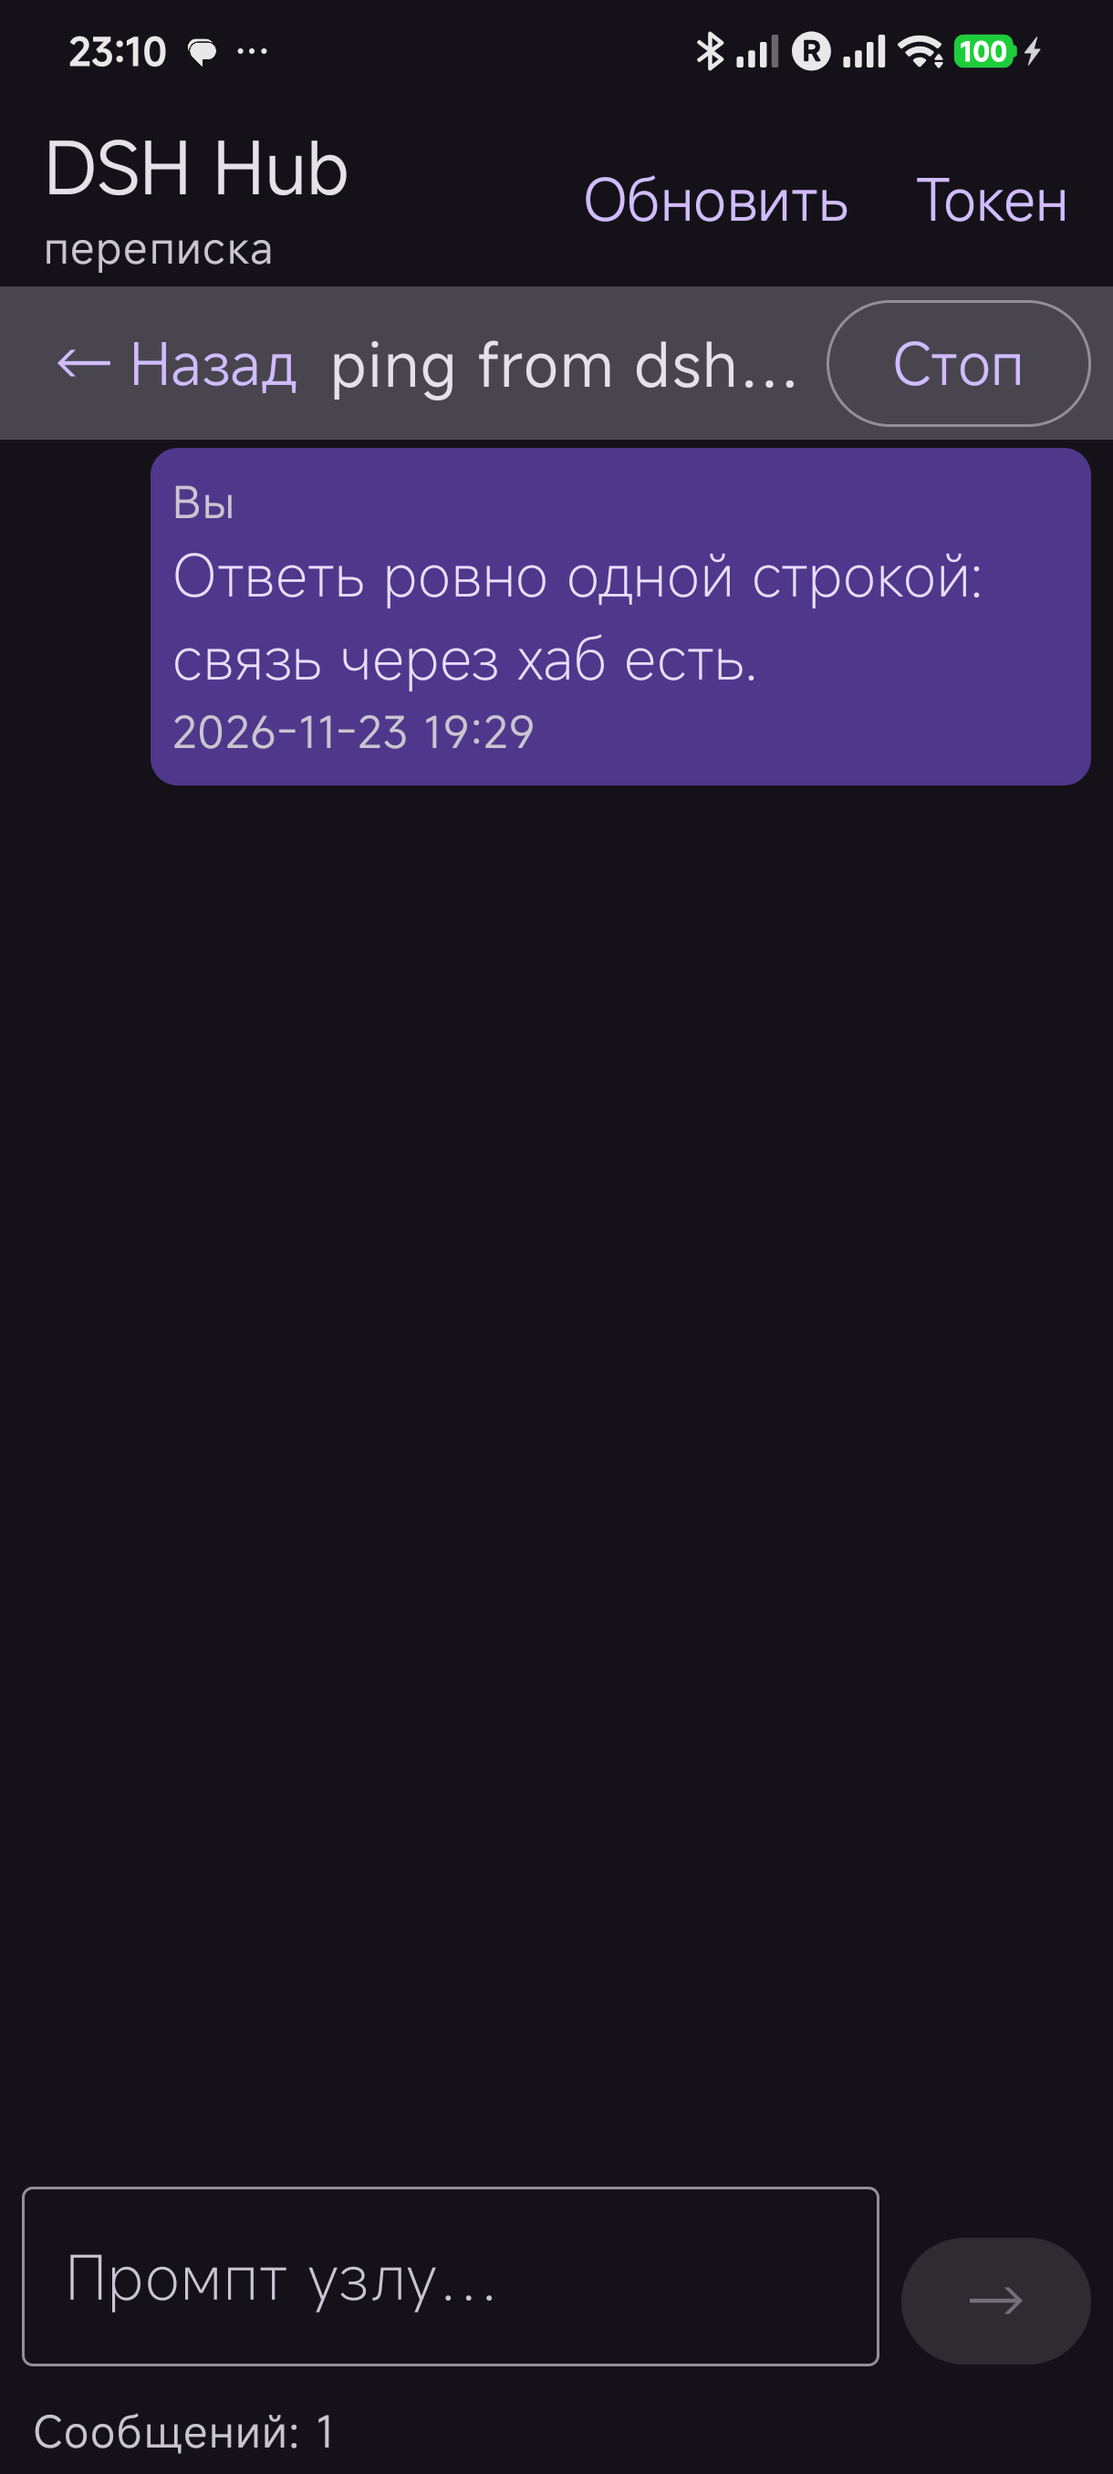
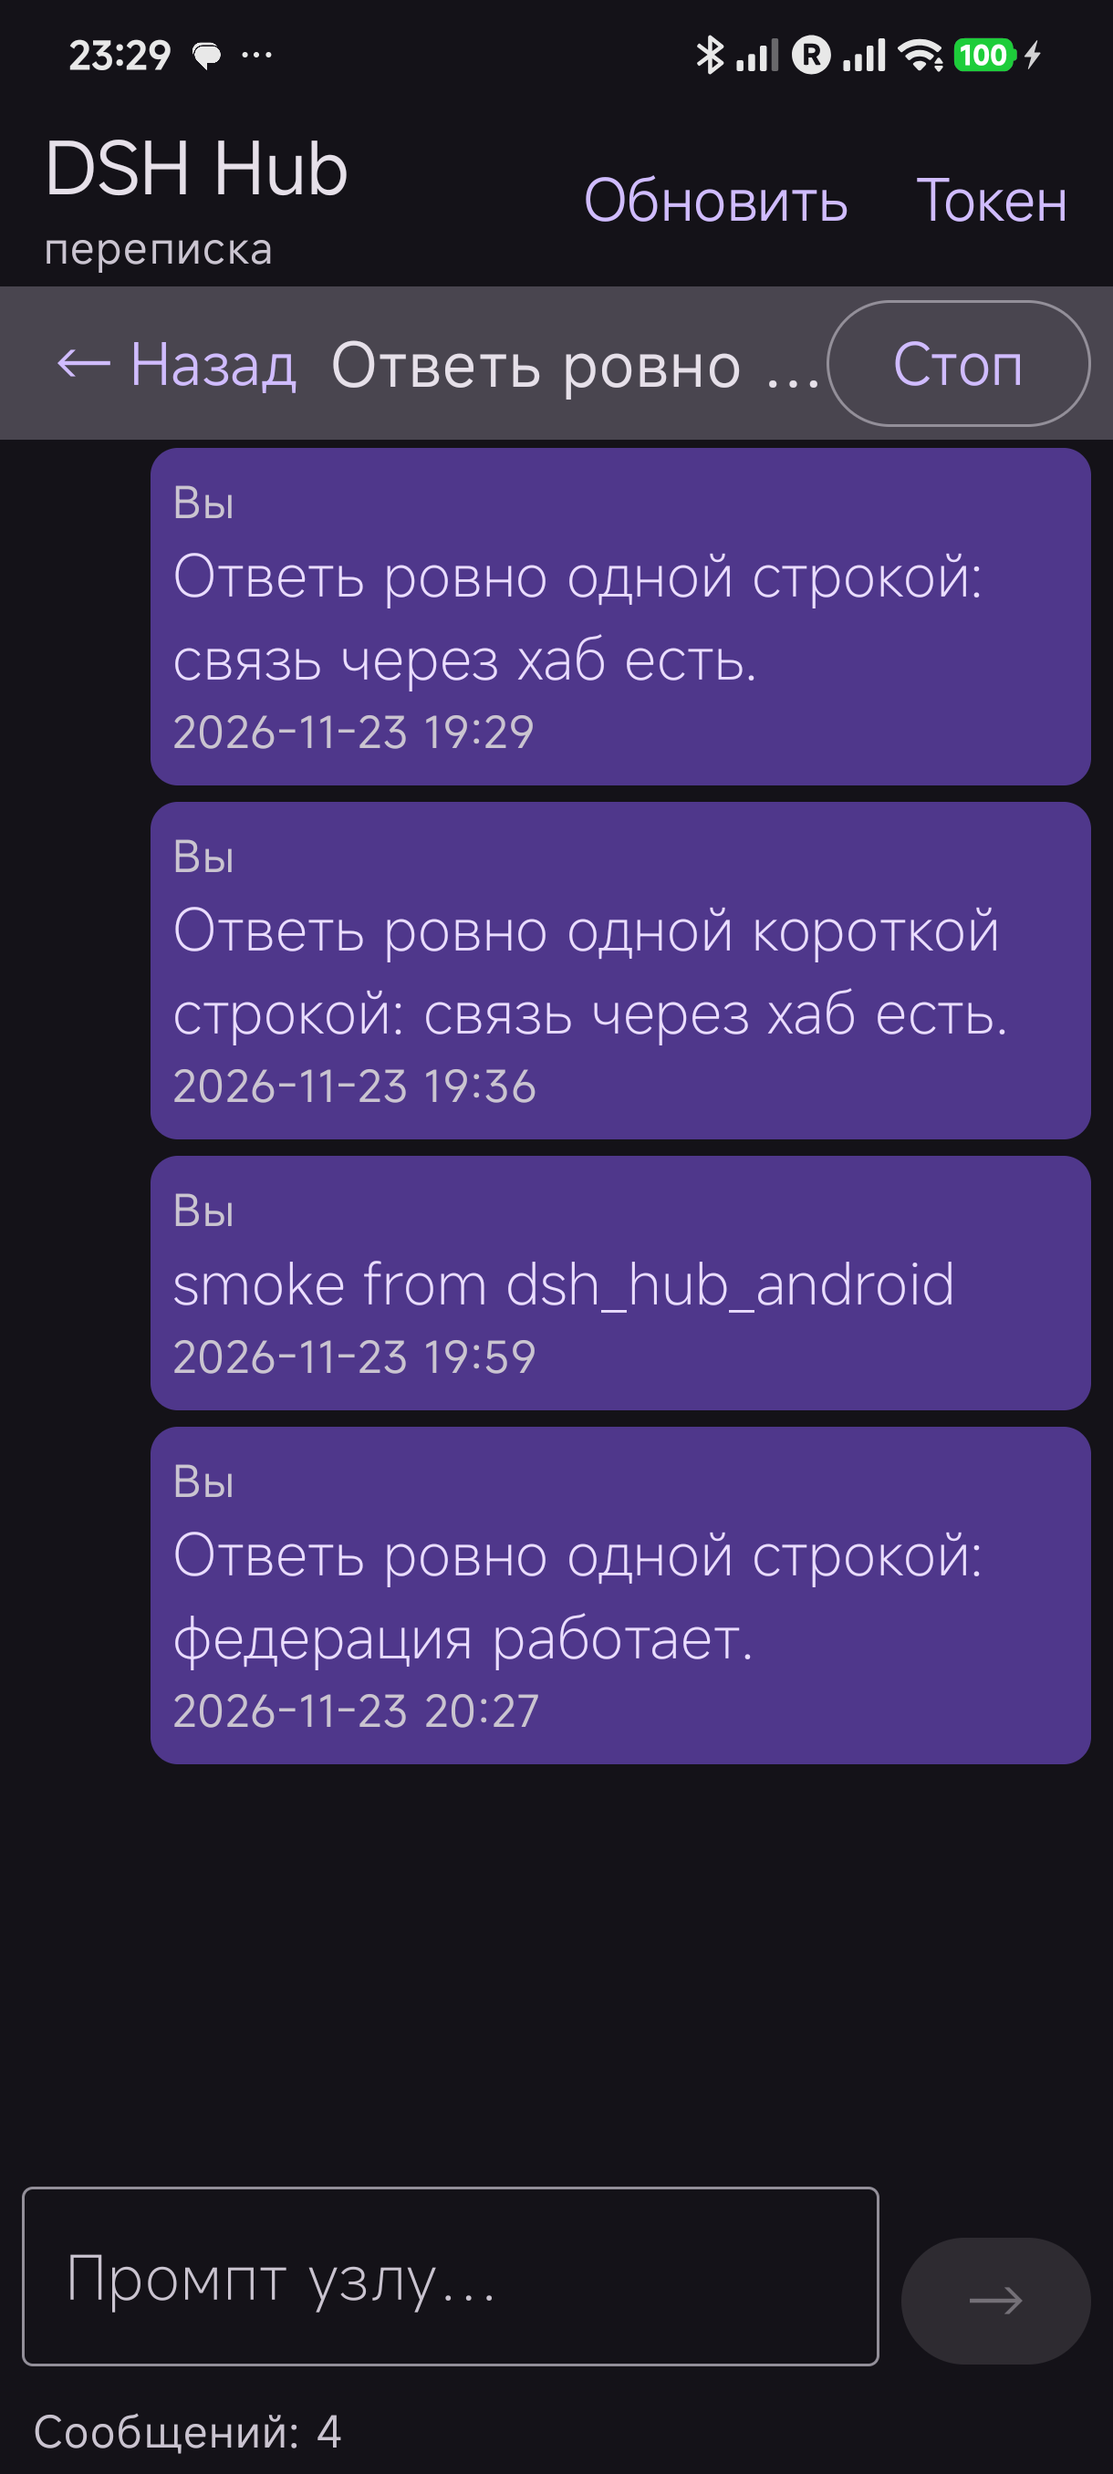
Приёмка федерации: оба телефона по локальной сети, тесты 9/9 и 2/2, чек-лист по ТЗ; честная оговорка про квоту модели

diff --git a/README.md b/README.md
@@ -82,18 +82,32 @@ flowchart LR
 
 ## Что уже работает
 
-**Хаб v0** — срез P0/P2: спаривание узлов по коду, `hello`, приём `index`, выдача списков узлов и сессий,
-хранение в SQLite без зависимостей (`node:sqlite`, Node 24).
+Живая федерация, а не макет: хаб-служба на настольном ПК (`0.0.0.0:18990`), узел на втором ПК, общий RAG
+и два телефона. Каждый пункт ниже — с цифрой и способом проверки.
+
+| Что | Итог | Чем доказано |
+| --- | --- | --- |
+| **Хаб v1** | служба `dsh-hub`, SQLite, очередь команд с идемпотентным `commandId`, SSE-поток узлу с курсором, снапшоты, `usage`, аудит, дашборд на `/` | `npm test` **9/9**, `GET /healthz` → `{"ok":true,"proto":1}` |
+| **Узел** | плагин `@local/dsh-hub-node` на Debian-ПК: `hello`, `index`, сессия создана **из хаба**, `prompt` исполнен **на узле** | тесты **2/2**; в журнале узла `turn/end`, в хабе — `reply{accepted}` и снапшот переписки |
+| **Память** | 374 журнала Windows-ПК влиты в **тот же** `ctxdb.sqlite` | 48 168 чанков отправлено → **21 469 новых** (14 проектов), 29 099 дублей отсеклось по id; поиск по фразе из Windows-сессии отдаёт её первой |
+| **Автоматизация (P2d)** | манифест профиля хаба: **856 скиллов + 3 чек-скрипта**, `sha` на весь набор, выдача файлов по одному, применение командой `automation.apply` | на узле 859 файлов, `sha` совпал, состояние `in-sync`; удалённый скилл вернулся следующим `apply` |
+| **Телефоны** | Redmi 23122PCD1G и HONOR FCP-N49 видят хаб **по локальной сети** (`192.168.88.35:18990`), без `adb reverse` | на обоих `ru.dsh.hub` показывает узел `debian17`; на Redmi открыты его 2 сессии и переписка (4 сообщения) |
 
 ```text
-$ npm test
-✔ спаривание, hello, index и выдача списков
-✔ данные узла переживают перезапуск хаба
-ℹ pass 2 · fail 0
+$ cd hub && npm test
+ℹ tests 9 · pass 9 · fail 0     # хаб: спаривание, SSE-очередь, офлайн-курсор, снапшоты, usage, аудит
+$ cd node && npm test
+ℹ tests 2 · pass 2 · fail 0     # узел: index, prompt у себя, снапшот переписки
 ```
 
-Проверено тестами: чужой код спаривания отбивается `401`, повторный `index` не плодит дубли, списки без
-hub-токена закрыты, данные узла переживают перезапуск.
+Правило версий: контракт `sessionController` у DSH 0.2.1-rc.2 и 0.2.2-rc.5 разный (нет `state`/`wait`,
+`page()` требует `throughSeq`, сообщение лежит то в `data.message`, то прямо в `data`) — узел пробует формы
+по очереди и запоминает **вид** запроса, а не адрес, иначе снапшот одной сессии уезжает в другую.
+
+**Честная оговорка:** ход на узле доходит до модели только при живом лимите провайдера. На стенде он
+упёрся в недельный лимит Z.AI (429 `Weekly/Monthly Limit Exhausted` до 2026-11-25) — транспорт, очередь и
+исполнение проверены, ответ модели ждёт восстановления квоты. Структурное лечение — прокси моделей на хабе
+(P3a), чтобы у узла и телефона вообще не было своих ключей.
 
 ## План
 
@@ -165,7 +179,7 @@ flowchart LR
 
 ```bash
 cd hub
-npm test                                   # 6/6 pass
+npm test                                   # 9/9 pass
 node src/hub.mjs --port 18990 --code ABCD --db ~/.dsh/federation.sqlite \
   --vault /srv/apps/dsh/obsidian/vault
 ```
@@ -217,11 +231,21 @@ control window — on the desktop and in an Android app.
 
 ### Status
 
-Hub v0 works and is covered by tests: pairing by code, `hello`, `index` ingestion, node/session listings in
-SQLite with no dependencies (`node:sqlite`, Node 24). `npm test` → 2/2 pass. Node plugin, Android app and the
-device service are on the roadmap (see [docs/PLAN.md](docs/PLAN.md)), along with P2d: rolling the hub's
-skills, plugins, dependencies and patches onto every node as one manifest instead of setting each device up by
-hand.
+A live federation, not a mock-up: the hub service on a desktop PC (`0.0.0.0:18990`), a node on a second PC,
+one shared RAG and two phones — each item below carries a number and a way to check it.
+
+| Piece | Result | Evidence |
+| --- | --- | --- |
+| **Hub v1** | `dsh-hub` service, SQLite, idempotent `commandId` queue, SSE stream with a cursor, snapshots, `usage`, audit, dashboard at `/` | `npm test` **9/9**, `GET /healthz` → `{"ok":true,"proto":1}` |
+| **Node** | `@local/dsh-hub-node` plugin on a Debian PC: `hello`, `index`, a session created **from the hub**, a `prompt` executed **on the node** | tests **2/2**; `turn/end` in the node's journal, `reply{accepted}` plus a chat snapshot in the hub |
+| **Memory** | 374 journals from a Windows PC merged into the **same** `ctxdb.sqlite` | 48,168 chunks sent → **21,469 new** (14 projects), 29,099 duplicates dropped by id; a phrase from a Windows session ranks its session first |
+| **Automation (P2d)** | the hub profile manifest: **856 skills + 3 check scripts**, one `sha` for the set, files served one by one, applied by `automation.apply` | 859 files on the node, matching `sha`, state `in-sync`; a deleted skill came back on the next `apply` |
+| **Phones** | Redmi 23122PCD1G and HONOR FCP-N49 reach the hub **over LAN** (`192.168.88.35:18990`), no `adb reverse` | both show node `debian17`; the Redmi lists its 2 sessions and reads the conversation (4 messages) |
+
+**Honest caveat:** a node turn only reaches the model while the provider quota is alive. On this stand it hit
+Z.AI's weekly limit (429 `Weekly/Monthly Limit Exhausted` until 2026-11-25) — transport, queue and execution
+are verified, the model answer waits for the quota. The structural fix is a model proxy on the hub (P3a), so
+neither a node nor a phone needs a key of its own.
 
 ### Memory and dashboard
 

diff --git a/docs/STATUS.md b/docs/STATUS.md
@@ -6,9 +6,9 @@
 | --- | --- | --- |
 | 1 | **Хаб v1**: очередь команд с идемпотентным `commandId`, SSE-поток узлу с курсором, снапшоты переписки, `usage`, аудит, статистика, дашборд на `/` | `npm test` 9/9 (было 6), коммит `1123b05` |
 | 2 | **Плагин-узел `@local/dsh-hub-node`**: спаривание по коду, `index` с заголовком из проекции, поток команд, исполнение `prompt`/`cancel`/`rename`/`snapshot`/`create` у себя, снапшот после хода | Тесты 2/2; живая пара хаб(этот ПК)↔узел(debian17): hello, index, создание сессии из хаба, ход реально исполнен на узле (упёрся только в недельный лимит провайдера 429) |
-
-| 3 | **Память: перенос базы Windows-ПК в общий RAG** — маршрут `POST /fed/v1/memory`, ингест в тот же `ctxdb.sqlite` (тот же `sha256`-id и та же векторизация, что у `dsh-memory-hub`), CLI `tools/import-sessions.mjs` | 374 журнала → 48 168 чанков отправлено, **21 469 новых** в общей базе (14 проектов), 28 187 дублей отсеклось по id; поиск по фразе из Windows-сессии отдаёт её первым результатом |
+| 3 | **Память: перенос базы Windows-ПК в общий RAG** — маршрут `POST /fed/v1/memory`, ингест в тот же `ctxdb.sqlite` (тот же `sha256`-id и та же векторизация, что у `dsh-memory-hub`), CLI `tools/import-sessions.mjs` | 374 журнала → 48 168 чанков отправлено, **21 469 новых** в общей базе (14 проектов), 29 099 дублей отсеклось по id; в `ctxdb.sqlite` 32 049 чанков, среди проектов — Windows-пути (`--C-Users-er-ka-Documents-…`, 12 975) |
 | 4 | **Автоматизация P2d**: манифест профиля хаба (`GET /fed/v1/automation/manifest`, 856 скиллов + 3 чек-скрипта, sha на весь набор), выдача файлов по одному, применение на узле командой `automation.apply`, отчёт в `node_automation` | На узле debian17 записано 859 файлов, `sha` совпал с хабом, состояние `in-sync`; удалённый скилл вернулся следующим `apply` (`written:1`, `skipped:858`) |
+| 5 | **Оба телефона подключены по локальной сети** (без `adb reverse`): Redmi 23122PCD1G и HONOR FCP-N49 бьют прямо в `192.168.88.35:18990` | На HONOR `ping`/`nc` до хаба — `PING_OK`/`TCP_OK` с `src 192.168.88.11 wlan0`; на обоих `ru.dsh.hub` показывает узел `debian17`; на Redmi открыты 2 сессии узла и переписка (4 сообщения, `Сообщений: 4`) |
 
 ## Что подтверждено на живой паре
 
@@ -28,3 +28,23 @@
 
 - Версии DSH различаются контрактом `sessionController`: в 0.2.1-rc.2 нет `state`/`wait`, `page()` требует `throughSeq`, а сообщение лежит прямо в `data`; в 0.2.2-rc.5 — наоборот. Узел пробует формы по очереди и запоминает рабочую.
 - Инъекции рантайма (`source.kind` = `runtime-context` / `time-context`) — не переписка: узел их не отправляет, иначе в UI хаба видно служебный шум вместо диалога.
+
+## Приёмка по ТЗ
+
+Поставленная задача разложена на шесть пунктов; каждый закрыт своим доказательством, а не обещанием.
+
+| Пункт ТЗ | Состояние | Доказательство на этой машине |
+| --- | --- | --- |
+| Хаб-служба на этом ПК | готово | `systemctl is-active dsh-hub` → `active`; `curl 127.0.0.1:18990/healthz` → `{"ok":true,"proto":1,"nodes":1,"sessions":2,"commands":35}` |
+| Плагин-узел DSH | готово | узел `node_8a602424` (`debian17`) в `nodes`, `last_seen` свежий; `commands` исполняются (`state: done`), `snapshots` наполняются |
+| База Windows-ПК в общем RAG | готово | `memory_ingest`: 21 469 чанков, 29 099 дублей; `ctxdb.sqlite` 32 049 чанков, 14 проектов |
+| Все доступные телефоны | готово | Redmi 23122PCD1G + HONOR FCP-N49 по LAN; UI обоих показывает узел, Redmi — сессии и переписку |
+| Раскатка автоматизации (P2d) | готово | `node_automation`: `state: in-sync`, `applied_sha 6e54db47…`, 859 файлов |
+| Отчёт в Telegram и GitHub по шагам | готово | коммиты `1123b05`, `580b9e5`, `12ddfca`, `4e5c16e`, `fdbe4b1` + этот; отчёты в Telegram после каждого шага |
+
+![Переписка узла в Android-клиенте](assets/phone-23122PCD1G-chat.png)
+
+Что осталось честно открытым: **ответ модели на узле**. Ход доходит до модели только при живой квоте
+провайдера, а Z.AI держит недельный лимит до 2026-11-25 (429 `Weekly/Monthly Limit Exhausted`). Транспорт,
+очередь, исполнение и снапшот проверены; ответ ждёт квоту. Структурное лечение — P3a (прокси моделей на
+хабе), после него ни узлу, ни телефону свои ключи не нужны вовсе.
